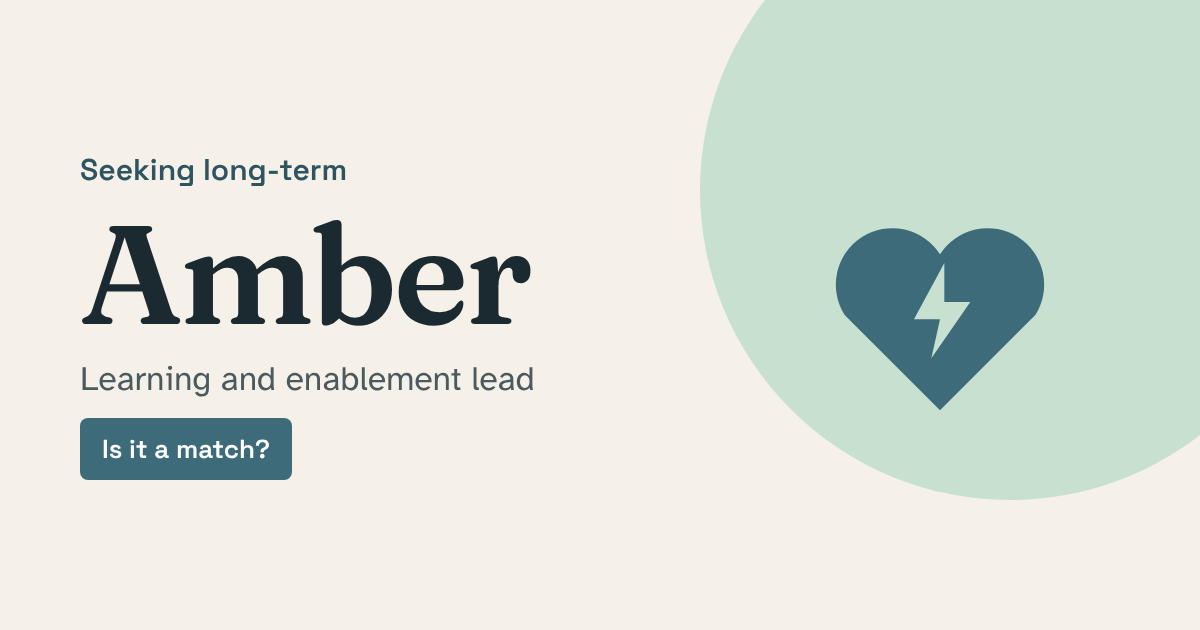
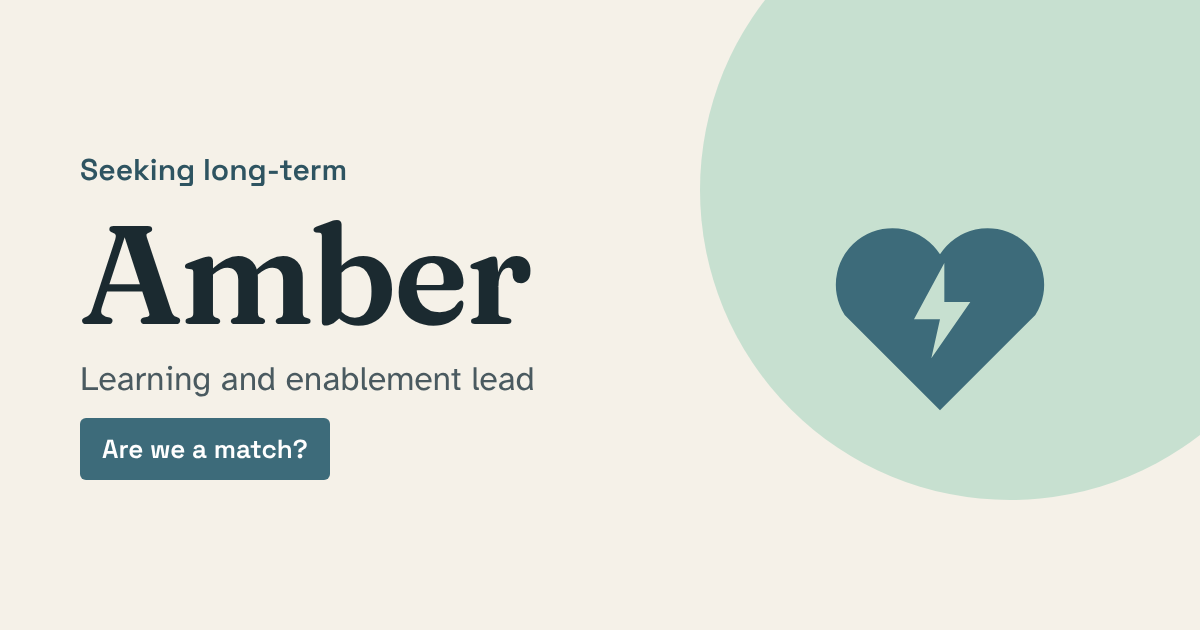
Seeking page: 'Are we a match?' in preview image, preview text, and bottom heading
Claude-Session: https://claude.ai/code/session_01BD9MvcLy8GQQ1miVzGSHTh

Changed region(s): [[0.0617, 0.6635, 0.2775, 0.7841]]

diff --git a/seeking/index.html b/seeking/index.html
@@ -11,11 +11,11 @@
 <meta property="og:type" content="website">
 <meta property="og:url" content="https://amberlaidman.github.io/seeking/">
 <meta property="og:title" content="Amber, seeking long-term">
-<meta property="og:description" content="Learning and enablement lead. Take the compatibility check and see if it's a match.">
-<meta property="og:image" content="https://amberlaidman.github.io/seeking/og.png">
+<meta property="og:description" content="Learning and enablement lead. Take the compatibility check and see if we're a match.">
+<meta property="og:image" content="https://amberlaidman.github.io/seeking/og.png?v=2">
 <meta property="og:image:width" content="1200">
 <meta property="og:image:height" content="630">
-<meta property="og:image:alt" content="Seeking long-term: Amber, learning and enablement lead. Is it a match?">
+<meta property="og:image:alt" content="Seeking long-term: Amber, learning and enablement lead. Are we a match?">
 <meta name="twitter:card" content="summary_large_image">
 <link rel="icon" href="../favicon.png">
 <style>
@@ -339,7 +339,7 @@ details.more[open] summary{margin-bottom:10px}
 
   <section class="ask" id="ask" aria-labelledby="h-ask">
     <div id="askMain" style="display:grid;gap:14px"><svg class="heart" viewBox="0 0 60 60" fill="currentColor" aria-hidden="true"><path d="M30 52 8 30a12 12 0 0 1 22-14 12 12 0 0 1 22 14z"/></svg>
-      <h2 id="h-ask">So, is it a match?</h2>
+      <h2 id="h-ask">So, are we a match?</h2>
       <div class="row"><button class="btn" id="noBtn" type="button">Not this time</button><button class="btn yes" id="yesBtn" type="button">Schedule a screen</button></div>
       <p class="note" id="noNote" aria-live="polite"></p>
       <a class="link" href="https://amberlaidman.github.io/" target="_blank" rel="noopener" style="justify-self:center">Not ready yet? Explore what else I've built<span class="sr-only"> (opens in a new tab)</span></a>
